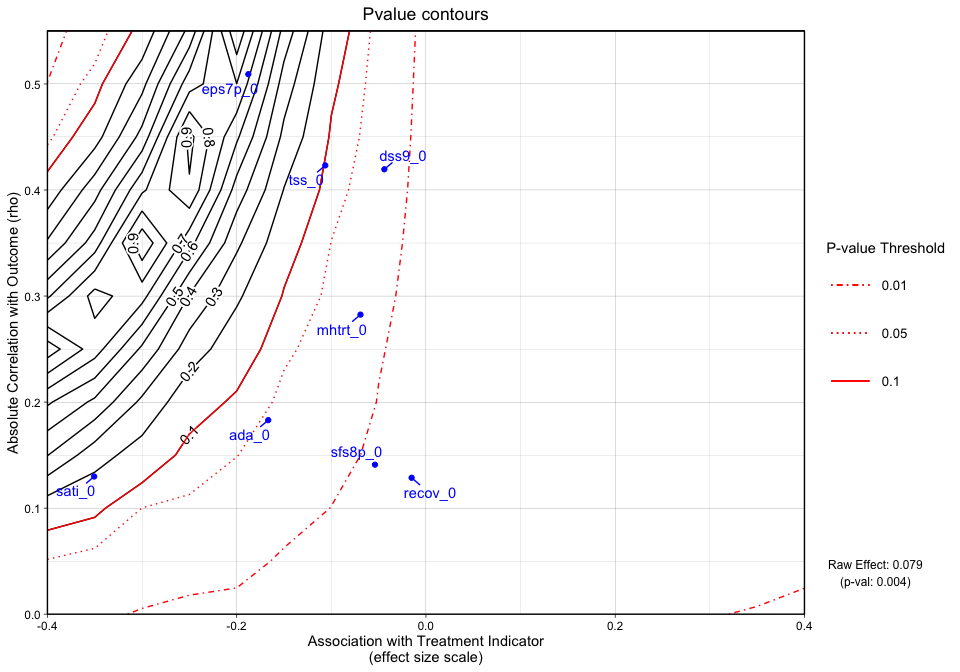
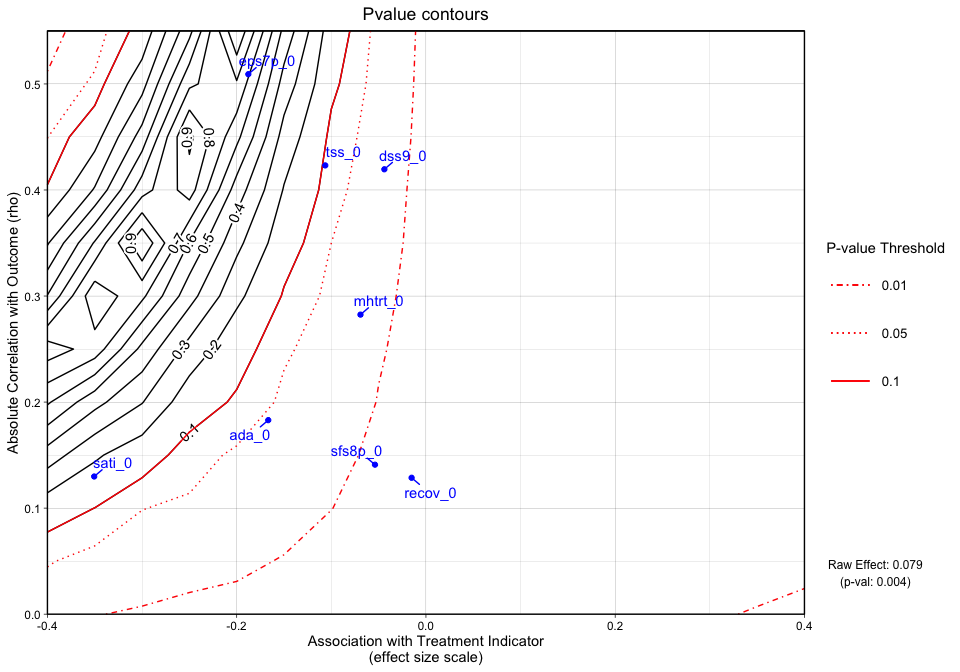
increase reps

diff --git a/README.md b/README.md
@@ -3,7 +3,7 @@
 
 
 *Note: This is a work in progress.. This document was lasted upated
-2020-06-27 09:30:07*
+2020-06-27 10:30:34*
 
 Introduction
 ============
@@ -72,6 +72,19 @@ code snippet prior to running the second line:
 
     # install.packages("devtools")
     devtools::install_github("jpane24/OVtool", ref="temporary")
+
+    ## 
+    ##      checking for file ‘/private/var/folders/ks/ll8v5y8x6rz_cgvtgk6zln90b6fd3c/T/Rtmp4BiuQR/remotes507a746263cd/jpane24-OVtool-efe1b8b/DESCRIPTION’ ...  ✓  checking for file ‘/private/var/folders/ks/ll8v5y8x6rz_cgvtgk6zln90b6fd3c/T/Rtmp4BiuQR/remotes507a746263cd/jpane24-OVtool-efe1b8b/DESCRIPTION’ (353ms)
+    ##   ─  preparing ‘OVtool’:
+    ##      checking DESCRIPTION meta-information ...  ✓  checking DESCRIPTION meta-information
+    ##   ─  checking for LF line-endings in source and make files and shell scripts
+    ##   ─  checking for empty or unneeded directories
+    ##   ─  building ‘OVtool_1.0.0.tar.gz’
+    ##      Warning: invalid uid value replaced by that for user 'nobody'
+    ##    Warning: invalid gid value replaced by that for user 'nobody'
+    ##      
+    ## 
+
     library(OVtool)
 
 We can load the synthetic dataset and make our treatment variable a
@@ -284,7 +297,7 @@ used by `OVtool`.
                                                       "mhtrt_0", "dss9_0"),
                                   es_grid = NULL,
                                   rho_grid = seq(0, 0.40, by = 0.05),
-                                  n_reps=30,
+                                  n_reps=50,
                                   progress = TRUE)
 
     ## [1] "Note: The maximum rho value you specified is less than the maximum absolute correlation a covariate has with the outcome. The rho grid was automatically expanded."
@@ -428,11 +441,11 @@ the ov object:
     ## [1] "The sign of the estimated effect is expected to remain consistent when simulated unobserved
     confounders have the same strength of association with the treatment indicator and outcome that are
     seen in the observed confounders. In the most extreme observed case, the estimated effect size is
-    reduced by 88 percent."
+    reduced by 87 percent."
     ## [1] "Statistical significance at the 0.05 level is expected to be robust to unobserved
     confounders with strengths of associations with the treatment indicator and outcome that are seen
     in 5 of the 8 observed confounders. In the most extreme observed case, the p-value would be
-    expected to increase from 0.004 to 0.740. Significance at the 0.05 level would not be expected to
+    expected to increase from 0.004 to 0.722. Significance at the 0.05 level would not be expected to
     be preserved for unobserved confounders that have the same strength of association with the
     treatment indicator and outcome as eps7p_0, sati_0, tss_0."
 
